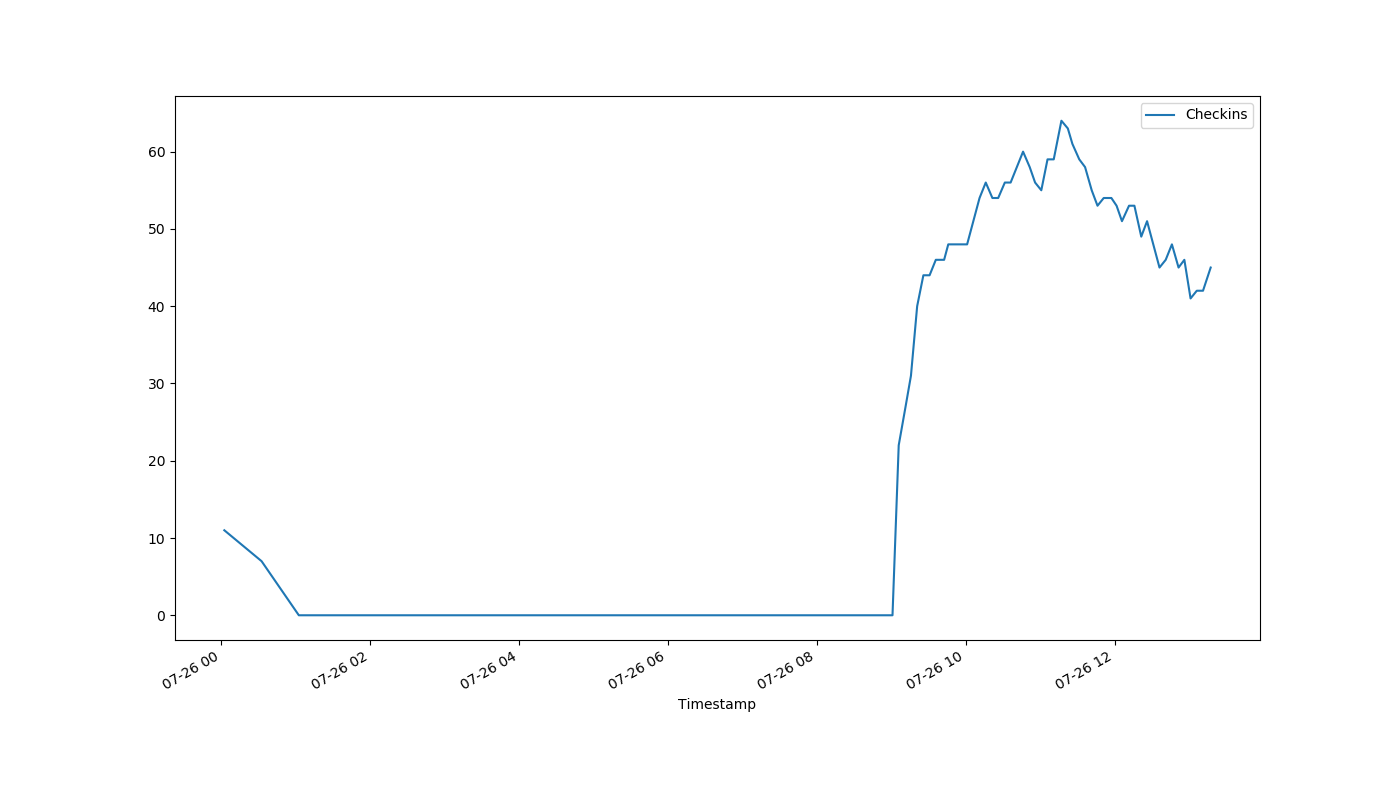
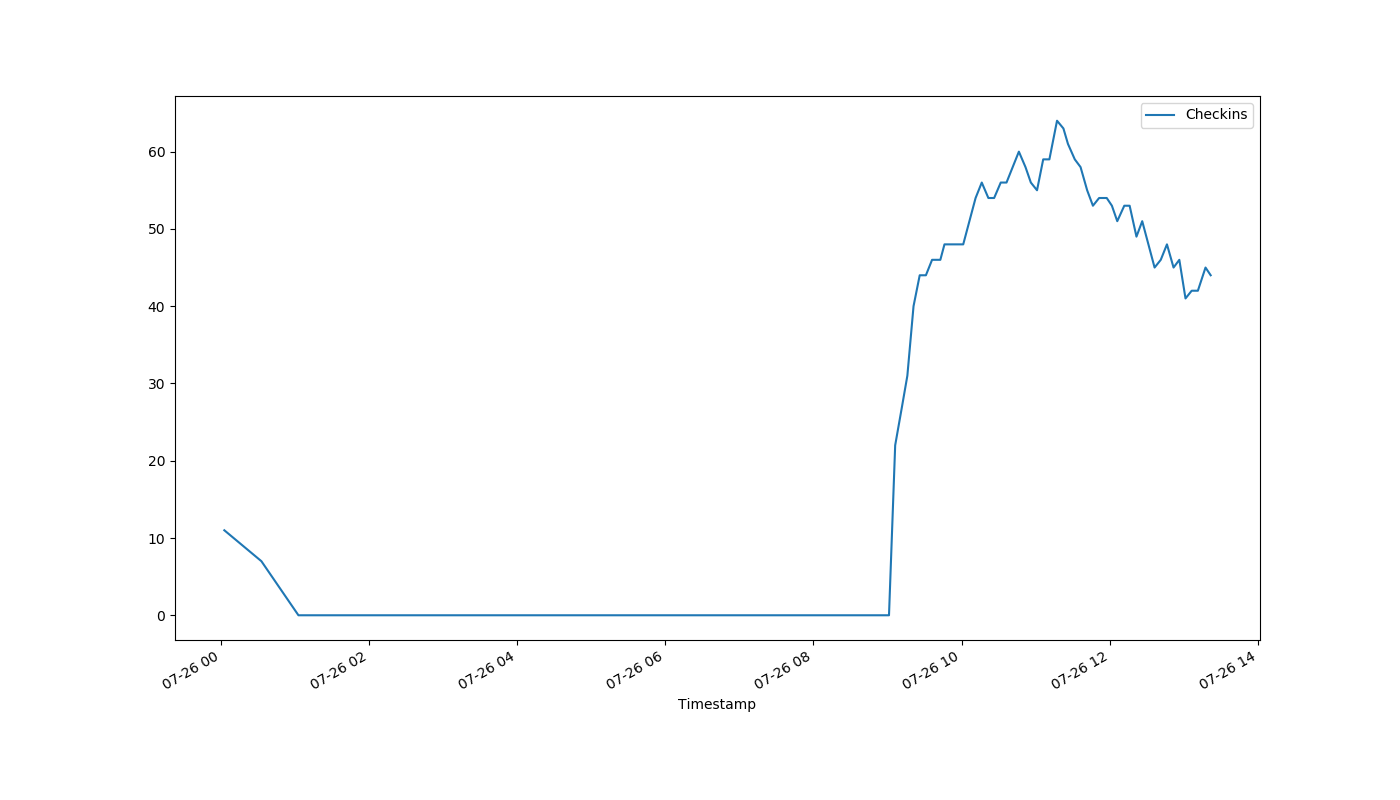
auto-Jul-26-13:23:32

diff --git a/index.html b/index.html
@@ -1,1 +1,1 @@
-<!DOCTYPE html><html><head><meta http-equiv="refresh" content="30"><link rel='stylesheet' href='holmcurrent.css'></head><body><p id='count'>45</p><div id='graph-wrap'><img id='graph' src='holmgraph-Jul-26.png'></div><p id='updated'>Last updated 13:18:03 / 13:17:28</p></body></html>
+<!DOCTYPE html><html><head><meta http-equiv="refresh" content="30"><link rel='stylesheet' href='holmcurrent.css'></head><body><p id='count'>44</p><div id='graph-wrap'><img id='graph' src='holmgraph-Jul-26.png'></div><p id='updated'>Last updated 13:22:03 / 13:21:39</p></body></html>
